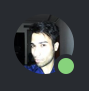
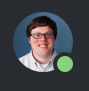
Working on section images !

diff --git a/home.html b/home.html
@@ -19,10 +19,18 @@
 
 	<link rel="stylesheet" type="text/css" href="home.css">
 
+	<style type="text/css">
+		
+		body{
+			color:grey;font-family:cursive !important;
+		}
+
+	</style>
+
 	<body>
 
 
-<nav class="navbar navbar-inverse">
+<nav class="navbar navbar-inverse" style="border-radius:0px;margin-bottom:0px;">
   <div class="container-fluid">
     <div class="navbar-header">
       <button type="button" class="navbar-toggle" data-toggle="collapse" data-target="#myNavbar">
@@ -56,14 +64,14 @@
   </div>
 </nav>
 	
-	<div class="container col-lg-12 col-md-12 col-sm-12" style="border:1px solid red;padding:0px;">
+	<div class="container col-lg-12 col-md-12 col-sm-12" style="border:0px solid red;padding:0px;">
 	
-	    <div class="col-lg-3 col-md-4 col-sm-4" style="border:0px solid yellow;background:#282B30;color:white;padding:0px;">
+	    <div class="col-lg-3 col-md-4 col-sm-4" style="border:0px solid yellow;background:#282B30;color:white;">
 	   
 	   			<div class="col-lg-9" style="margin:0px;padding:0px;">
 		    		<div class="col-lg-7 col-lg-offset-1" style="border:0px solid white;padding:0px;">
 		    			<br>
-		    			Friends !
+		    			Friends
 		    		</div>
 		    	</div>
 		
@@ -73,15 +81,76 @@
 		    		</div>
 		    		<div class="col-lg-7" style="border:0px solid white;padding:0px;">
 		    			<br>
-		    			George Washington !
+		    			George Washington
+		    		</div>
+		    	</div>
+
+		    	<div class="col-lg-9" style="margin:0px;padding:0px;">
+		    		<div class="col-lg-3" style="border:0px solid white;padding:0px;">
+		    			<img class = "img-responsive" src="side_nav_img_1.png">
+		    		</div>
+		    		<div class="col-lg-7" style="border:0px solid white;padding:0px;">
+		    			<br>
+		    			Charles Solo
 		    		</div>
 		    	</div>
 		
 
 	    </div>
-	    <div class="col-lg-9" style="border:1px solid green;background:#36393E;">
-	      1 of 2
+
+	    <div class="col-lg-9 col-md-8 col-sm-8" style="padding:0px;">
+
+	    <div class="col-lg-12 col-md-12 col-sm-12" style="border:0px solid green;background:#36393E;">
+
+	    	<div class="col-lg-6 col-md-6 col-sm-6" style="border:0px solid white;padding:4px;color:white;">
+
+	    			<div class="col-lg-4" style = "border:0px solid white; padding:5px; color:grey;font-family:cursive !important;">
+	    			 <span class="glyphicon glyphicon-remove-sign"></span> 
+	    				Make Public
+	    			</div>
+
+	    			<div class="col-lg-4" style = "border:0px solid white; padding:5px; color:grey;font-family:cursive !important;">
+	    			 <span class="glyphicon glyphicon-ok-sign" style="color:#7187DD;"></span> 
+	    				Allow Invites 
+	    			</div>
+
+
+
+	    			
+		    			
+    		</div>
+
+	    	<div class="col-lg-5 col-lg-offset-1 col-md-5 col-md-offset-1 col-sm-6" style="padding:4px;border:0px solid red;font-family:cursive !important;">
+
+				    <div style="border:0px solid red;" class="col-lg-12">
+				      	<button type="button" class="btn btn-danger navbar-right" >
+					      <span class="glyphicon glyphicon-remove" ></span> Leave Lobby !
+					    </button>
+					</div>
+			
+			</div>
 	    </div>
+
+
+	    <div class="col-lg-12 col-md-12 col-sm-12" style="border:1px solid green;background:#36393E;">
+
+	    	<div class="col-lg-2 col-md-3 col-sm-3" style="border:1px solid white;padding:4px;color:white;">
+
+	    		<img class = "img-responsive" src="section_nav_img_1.png">
+
+	    		
+    		</div>
+    		<div class="col-lg-2 col-md-3 col-sm-3" style="border:1px solid white;padding:4px;color:white;">
+
+	    		<img class = "img-responsive" src="section_nav_img_2.png">
+
+	    		
+    		</div>
+	    </div>
+
+	    </div>
+
+
 	 </div>
 
 
